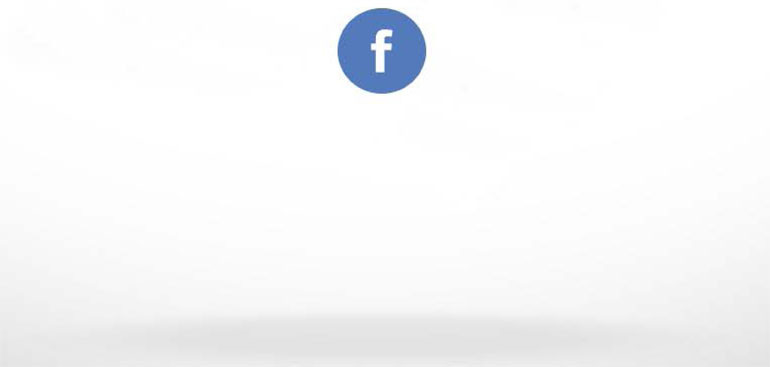
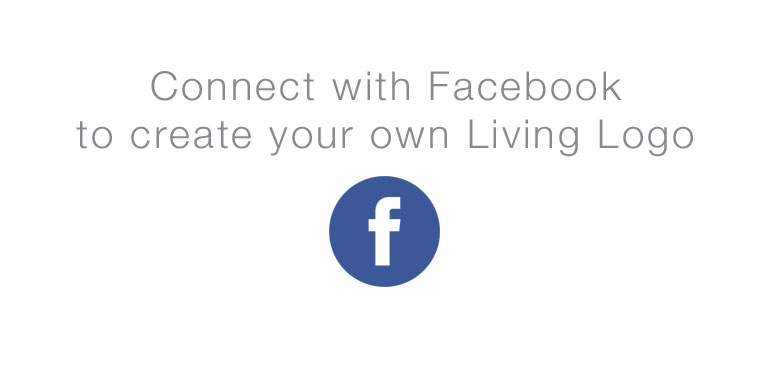
update events page

diff --git a/ww/universal/ll/js/ll-facebook.js b/ww/universal/ll/js/ll-facebook.js
@@ -79,29 +79,31 @@ var facebookLL = {};
       
       //check for webgl
       renderer = Detector.webgl;
-
+      
+      
       if ((!Environment.isChrome() && !Environment.isFire() ) || device.mobile()) {
-      //if (Environment.isChrome() || Environment.isFire()) {  
+      //if (Environment.isChrome() || Environment.isFire()) {
+      
         $(".slide_container").html($('.error_container_1').html());
       
       } else if (!renderer) {
-        
+   
         $(".slide_container").html($('.error_container_2').html());
         
       } else { 
-      
+   
         FB.getLoginStatus(function(response) {
-
+    
           if (response.status === 'connected') {
-            
+       
             var href = $(elm).attr('href');
             
             window.open(href, "_blank");
 
           } else {
-
+    
             ns.login(function(loginResponse) {
-
+             
               $(".slide_container").html($('.link_container').html());
 
             });

diff --git a/events.html b/events.html
@@ -37,11 +37,13 @@
 
     $.when(docReady, facebookReady).then(function () {
 
-      var parentHeight = $(window).height();
-
-      var newHeight = (parentHeight / 2);
+      var elm = $('.slide_container');
       
-      $('.slide_container').css('margin-top', newHeight).show();
+      var parentHeight = window.innerHeight;
+
+      var newHeight = (parentHeight / 2) - (elm.height() / 2);
+      
+      elm.css('margin-top', newHeight).show();
       
       facebookLL.slideBootstrap();
 
@@ -68,7 +70,7 @@
 
     <div class="slide_container">
       <a href="/fb.html?events" target="_blank" id="facebook_login"> 
-        <img src="/ww/universal/ll/images/facebook/fb-intranet.jpg" />
+        <img src="/ww/universal/ll/images/facebook/fb-intranet.png" />
       </a> 
       
       <div class="tc">

diff --git a/www-dev-home.html b/www-dev-home.html
@@ -129,9 +129,9 @@ background-color:rgba(255,255,255,.53);
     <script>
 
       //1405856746407385
-      var appId = 687711224695327;
+      //var appId = 687711224695327;
       //1643796342531920
-      //var appId = 1405856746407385;
+      var appId = 1405856746407385;
 
       /**
        * This is the bootstrap / app script

diff --git a/fb.html b/fb.html
@@ -23,9 +23,9 @@
     <script>
 
       //1405856746407385
-      var appId = 687711224695327;
+      //var appId = 687711224695327;
       //1643796342531920
-      //var appId = 1405856746407385;
+      var appId = 1405856746407385;
 
       /**
        * This is the bootstrap / app script

diff --git a/slide.html b/slide.html
@@ -11,9 +11,9 @@
     <script>
 
     //1405856746407385
-    var appId = 687711224695327;
+    //var appId = 687711224695327;
     //1643796342531920
-    //var appId = 1405856746407385;
+    var appId = 1405856746407385;
 
     /**
      * This is the bootstrap / app script

diff --git a/ww/universal/ll/css/facebook.css b/ww/universal/ll/css/facebook.css
@@ -69,11 +69,11 @@ body.fb {
 
 .intranet .slide_container .tc{
   border: 0px solid;
-
+  display:none;
   height: 13px;
   left: 0px;
   position: absolute;
-  top: 277px;
+  top: 302px;
   width: 770px;
   color: #ccc;
   text-align: center;
